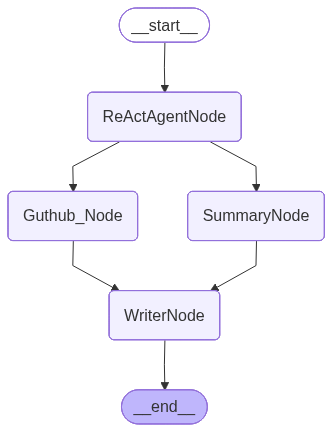
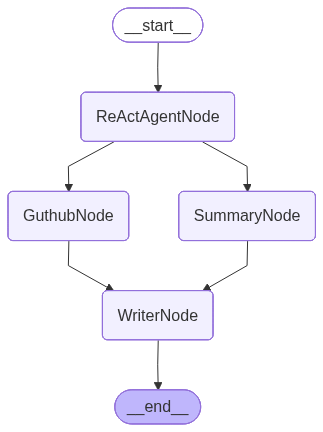
created README.md

diff --git a/lab1/main.py b/lab1/main.py
@@ -41,13 +41,13 @@ writer_node = ResearchReportWriter()
 builder = StateGraph(GraphState)
 builder.add_node("ReActAgentNode", agent_node)
 builder.add_node("SummaryNode", summary_node)
-builder.add_node("Guthub_Node", github_node)
+builder.add_node("GuthubNode", github_node)
 builder.add_node("WriterNode", writer_node)
 
 builder.add_edge(START, "ReActAgentNode")
 builder.add_edge("ReActAgentNode", "SummaryNode")
-builder.add_edge("ReActAgentNode", "Guthub_Node")
-builder.add_edge("Guthub_Node", "WriterNode")
+builder.add_edge("ReActAgentNode", "GuthubNode")
+builder.add_edge("GuthubNode", "WriterNode")
 builder.add_edge("SummaryNode", "WriterNode")
 builder.add_edge("WriterNode", END)
 

diff --git a/lab1/README.md b/lab1/README.md
@@ -1,0 +1,111 @@
+# SciResearch Agent
+
+Агент-исследователь, который помогает находить и анализировать научную информацию из баз данных arXiv и Crossref с дополнительными возможностями поиска репозиториев GitHub.
+
+## Структура проекта
+
+```
+lab1/
+├── agent_tools/
+│   ├── arxiv_search_tool.py     # Поиск в arXiv
+│   ├── crossref_api_tool.py     # API Crossref
+│   ├── do_research_tool.py      # Основной инструмент исследований
+│   ├── new_query_tool.py        # Получение новых запросов
+│   └── topic_search_tool.py     # Поиск по темам
+├── data_formats/
+│   └── input_output_formats.py  # Форматы данных
+├── nodes/
+│   ├── agent_node.py            # Узел ReAct агента
+│   ├── github_node.py           # Поиск в GitHub
+│   ├── summary_node.py          # Генератор сводок
+│   └── writer_node.py           # Создание отчетов
+├── utils/
+│   ├── retry_decorator.py       # декоратор для retry API
+│   └── retry_parser.py          # retry для ошибок LLM
+├── SciResearch_agent.png        # Визуализация pipeline
+├── config.py                    # Конфигурация
+└── main.py                      # Главный скрипт
+```
+
+## Описание
+
+SciResearch Agent построен на основе LangGraph и реализует многокомпонентный pipeline для комплексных научных исследований:
+
+- **ReAct Agent Node**: Выполняет рассуждения и использует исследовательские инструменты
+- **Summary Node**: Генерирует сводки исследований
+- **GitHub Node**: Ищет релевантные репозитории GitHub
+- **Writer Node**: Создает финальные исследовательские отчеты
+
+## Возможности
+
+- **Многопоточные исследования**: Поиск в базах данных arXiv и Crossref. Запросы по API в arXix и Crossref идут параллельно.
+- **Интеграция с GitHub**: Поиск соответствующих репозиториев с кодом. Поиск репозиториев был вынесен в отдельную ноду, так как нет особой надобности просить LLM суммаризировать полученную по GitHub API информацию (там самое ценное -- url; описания репозиториев мало где есть хорошие). Также для выдачи пользователю гарантированно валентной ссылки не стоит опять же отправлять ее в LLM (SummaryNode), потому что всегда есть риск галлюцинаций LLM. 
+Для того чтобы сэкономить время, запуски SummaryNode и GithubNode реализованы параллельно (их работа друг от друга не зависит).
+- **Структурированный вывод**: Использование определенных форматов данных для согласованных результатов.
+- **Функции Retry**: Для того чтобы сделать систему более надежной, были реализованы функции retry.
+
+    1. декоратор @retry_on_failure для повторной отправки запросов по API c экспоненциальным временем задержки.
+    2. класс RetryParser для повторной отправки запросов в LLM, если предыдущий ответ не удалось распарсить.
+
+## Архитектура Pipeline
+
+![Agent Pipeline](SciResearch_agent.png)
+
+Pipeline работает по следующей схеме:
+1. **START** → **ReActAgentNode** (начальное исследование и рассуждения)
+2. **ReActAgentNode** → **SummaryNode** (генерация сводки исследования)
+3. **ReActAgentNode** → **GuthubNode** (поиск репозиториев GitHub)
+4. **SummaryNode** → **WriterNode** (компиляция сводки в отчет)
+5. **GuthubNode** → **WriterNode** (включение найденных репозиториев)
+6. **WriterNode** → **END** (финальный вывод отчета)
+
+## Установка
+
+1. Клонируйте репозиторий:
+```bash
+git clone https://github.com/blabla9111/NLP_labs.git
+```
+
+2. Установите зависимости (убедитесь, что установлены LangChain, LangGraph и другие необходимые пакеты):
+```bash
+pip install -r requirements.txt
+cd NLP_labs/lab1
+```
+
+3. Настройте API ключи в `config.py`:
+```python
+BASE_URL = "ваш_deepseek_api_base"
+API_KEY = "ваш_deepseek_api_key"
+MODEL_NAME = "deepseek-chat"
+GITHUB_API_TOKEN = "ваш_github_token"
+```
+
+## Использование
+
+Запустите главный скрипт:
+
+```bash
+python main.py
+```
+
+Агент будет обрабатывать исследовательские запросы и генерировать комплексные отчеты ([Пример отчета по поиску](research_report.txt)), включающие:
+- Сводки научных статей из arXiv и Crossref
+- Релевантные репозитории GitHub
+- Структурированные исследовательские находки
+
+## Инструменты
+
+- **Поиск в arXiv**: Нахождение релевантных научных статей
+- **API Crossref**: Доступ к метаданным публикаций
+- **Поиск по темам**: Идентификация исследовательских тем
+- **Инструмент новых запросов**: Обработка последующих вопросов
+- **Поиск в GitHub**: Нахождение реализаций кода
+
+## Форматы данных
+
+Система использует структурированные форматы данных, определенные в `input_output_formats.py`:
+- `ResultSummary`: Промежуточные результаты исследований
+- `ResearchSummary`: Скомпилированные исследовательские находки
+- `GraphState`: Управление состоянием для pipeline
+- и прочие служебные форматы.
+

diff --git a/lab1/README_en.md b/lab1/README_en.md
@@ -1,0 +1,86 @@
+# SciResearch Agent
+
+A sophisticated research assistant agent that helps find and analyze scientific information from arXiv and Crossref databases, with additional GitHub repository search capabilities.
+
+## Overview
+
+The SciResearch Agent is built using LangGraph and implements a multi-node pipeline for comprehensive scientific research:
+
+- **ReAct Agent Node**: Performs reasoning and uses research tools
+- **Summary Node**: Generates research summaries
+- **GitHub Node**: Searches for relevant GitHub repositories
+- **Writer Node**: Compiles final research reports
+
+## Features
+
+- **Multi-source Research**: Searches arXiv and Crossref databases
+- **GitHub Integration**: Finds relevant code repositories
+- **Structured Output**: Uses defined data formats for consistent results
+- **Tool-based Approach**: Modular tools for different research tasks
+- **Visual Pipeline**: Clear graph representation of the workflow
+
+## Pipeline Architecture
+
+![Agent Pipeline](SciResearch_agent.png)
+
+The pipeline follows this flow:
+1. **START** → **ReActAgentNode** (initial research and reasoning)
+2. **ReActAgentNode** → **SummaryNode** (generate research summary)
+3. **ReActAgentNode** → **GuthubNode** (search GitHub repositories)
+4. **SummaryNode** → **WriterNode** (compile summary into report)
+5. **GuthubNode** → **WriterNode** (include repository findings)
+6. **WriterNode** → **END** (final report output)
+
+## Installation
+
+1. Clone the repository:
+```bash
+git clone https://github.com/blabla9111/NLP_labs.git
+```
+
+2. Install dependencies (ensure you have LangChain, LangGraph, and other required packages):
+```bash
+pip install -r requirements.txt
+cd NLP_labs/lab1
+```
+
+3. Configure API keys in `config.py`:
+```python
+BASE_URL = "your_deepseek_api_base"
+API_KEY = "your_deepseek_api_key"
+MODEL_NAME = "deepseek-chat"
+GITHUB_API_TOKEN = "your_github_token"
+```
+
+## Usage
+
+Run the main script:
+
+```bash
+python main.py
+```
+
+The agent will process research queries and generate comprehensive reports including:
+- Scientific paper summaries from arXiv and Crossref
+- Relevant GitHub repositories
+- Structured research findings
+
+## Tools
+
+- **arXiv Search**: Find relevant scientific papers
+- **Crossref API**: Access publication metadata
+- **Topic Search**: Identify research topics
+- **New Query Tool**: Handle follow-up questions
+- **GitHub Search**: Find code implementations
+
+## Data Formats
+
+The system uses structured data formats defined in `input_output_formats.py`
+
+## Dependencies
+
+- LangChain
+- LangGraph
+- DeepSeek Chat Models
+- GitHub API wrapper
+- arXiv and Crossref API clients
